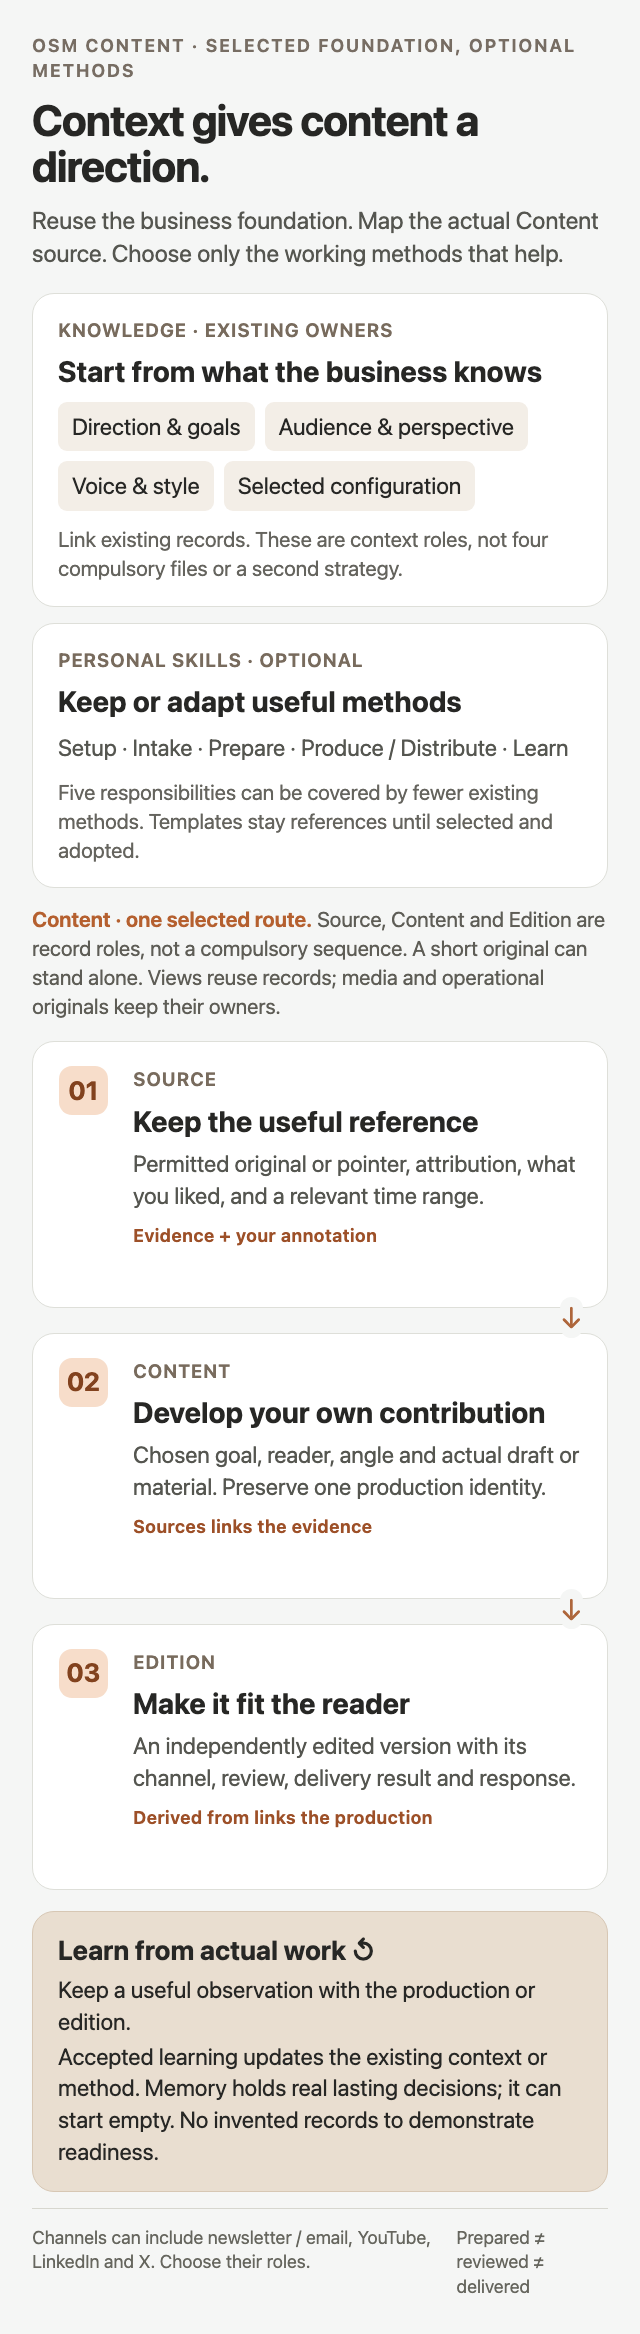
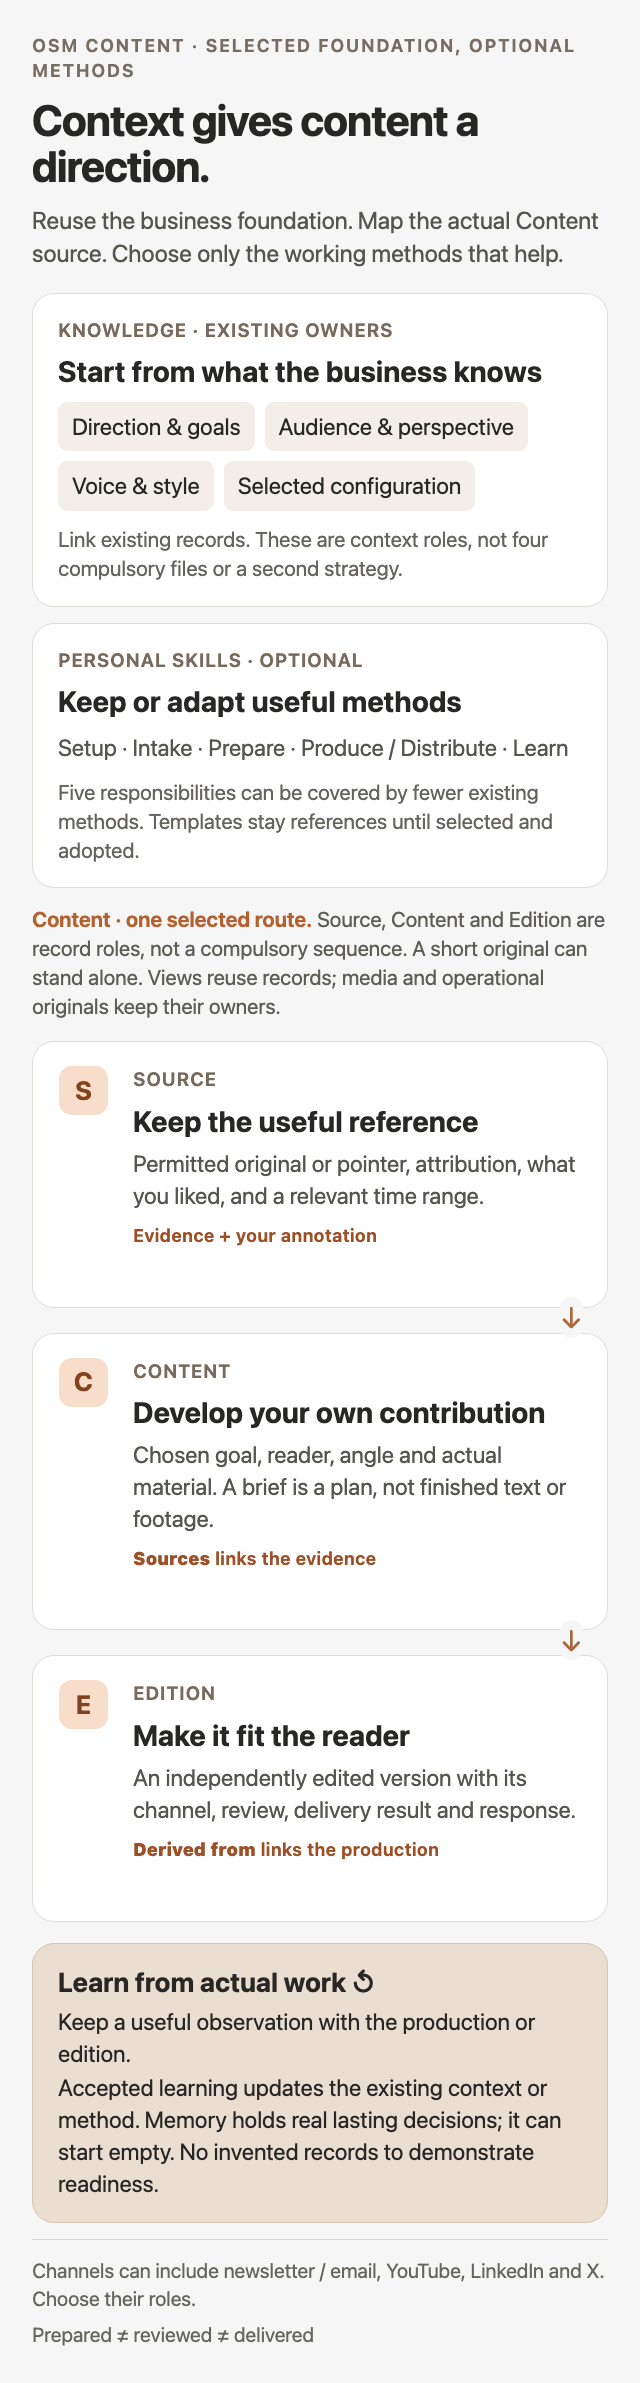
Clarify actual material and record roles in Content diagrams

diff --git a/assets/diagrams/content-foundation.html b/assets/diagrams/content-foundation.html
@@ -1,7 +1,7 @@
 <!doctype html><html lang="en"><meta charset="utf-8"><meta name="viewport" content="width=device-width, initial-scale=1"><title>Content foundation and optional methods</title>
 <style>
 *{box-sizing:border-box}body{margin:0;background:#f5f6f5;color:#272725;font:24px/1.38 -apple-system,BlinkMacSystemFont,"Segoe UI",sans-serif}.canvas{max-width:1600px;margin:auto;padding:50px 56px}.eyebrow{font-size:19px;text-transform:uppercase;letter-spacing:2px;color:#776d63;font-weight:650}h1{font-size:49px;line-height:1.08;letter-spacing:-1.6px;margin:13px 0 14px}h2{font-size:29px;line-height:1.16;margin:0 0 13px}p{margin:0 0 12px}.intro{max-width:1150px;color:#555650;font-size:24px}.top{display:grid;grid-template-columns:1.05fr .95fr;gap:22px;margin:28px 0 20px}.card{background:white;border:1px solid #dedfd9;border-radius:22px;padding:26px 30px}.label{font-size:18px;letter-spacing:1px;text-transform:uppercase;color:#786b5d;font-weight:650;margin-bottom:12px}.chips{display:flex;gap:10px;flex-wrap:wrap}.chip{padding:9px 14px;background:#f3eee7;border-radius:9px;font-size:21px}.muted{color:#65645e;font-size:20px;margin:14px 0 0}.rule{color:#b5602f;font-weight:650}.steps{display:grid;grid-template-columns:repeat(3,1fr);gap:22px}.step{position:relative}.step:not(:last-child):after{content:'→';position:absolute;right:-25px;top:65px;z-index:2;background:#f5f6f5;border-radius:30px;color:#ae663b;font-size:29px}.symbol{width:49px;height:49px;border-radius:13px;background:#f7ddca;color:#82421e;display:grid;place-items:center;font-weight:700;font-size:26px;margin-bottom:15px}.titleline{display:flex;align-items:center;gap:12px}.titleline h2{margin:0}.titleline .symbol{margin:0}.detail{font-size:21px;color:#555650}.learn{background:#e9ded0;border-color:#d7c7b4;display:grid;grid-template-columns:1fr 1.5fr;gap:22px;margin:21px 0 16px}.learn h2{font-size:27px}.learn p{font-size:22px;margin:0}.footer{font-size:19px;color:#66665e;display:flex;justify-content:space-between;gap:25px;border-top:1px solid #d7d7cf;padding-top:17px}.note{font-size:20px;color:#5e5d56;margin:0 0 22px}.steps .card{padding:24px 26px}.steps h2{margin:0 0 10px}.tag{font-size:18px;font-weight:650;letter-spacing:.5px;color:#9d5028;margin:12px 0 0}ul{padding-left:23px;margin:0}li{margin:3px 0}
-@media(max-width:900px){body{font-size:25px}.canvas{padding:34px 32px}.eyebrow{font-size:18px}h1{font-size:43px;letter-spacing:-1px}.intro{font-size:24px}.top{grid-template-columns:1fr;gap:16px;margin:23px 0 17px}.card{padding:23px 25px}.chip{font-size:23px}.muted{font-size:21px}.steps{grid-template-columns:1fr;gap:25px}.steps .card{padding:24px 26px}.steps .step{display:grid;grid-template-columns:57px 1fr;gap:17px}.steps .step>div{grid-column:2}.steps .step .symbol{grid-column:1;grid-row:1/4;margin:0}.steps .step:not(:last-child):after{content:'↓';right:24px;top:auto;bottom:-31px}.steps h2{font-size:29px}.detail{font-size:23px}.learn{grid-template-columns:1fr;gap:3px}.learn p{font-size:23px}.footer{font-size:18px}.note{font-size:21px;margin-bottom:20px}.label{font-size:19px}.learn h2{margin-bottom:8px}}
+@media(max-width:900px){body{font-size:25px}.canvas{padding:34px 32px}.eyebrow{font-size:18px}h1{font-size:43px;letter-spacing:-1px}.intro{font-size:24px}.top{grid-template-columns:1fr;gap:16px;margin:23px 0 17px}.card{padding:23px 25px}.chip{font-size:23px}.muted{font-size:21px}.steps{grid-template-columns:1fr;gap:25px}.steps .card{padding:24px 26px}.steps .step{display:grid;grid-template-columns:57px 1fr;gap:17px}.steps .step>div{grid-column:2}.steps .step .symbol{grid-column:1;grid-row:1/4;margin:0}.steps .step:not(:last-child):after{content:'↓';right:24px;top:auto;bottom:-31px}.steps h2{font-size:29px}.detail{font-size:23px}.learn{grid-template-columns:1fr;gap:3px}.learn p{font-size:23px}.footer{font-size:20px;flex-direction:column;gap:9px}.note{font-size:21px;margin-bottom:20px}.label{font-size:19px}.learn h2{margin-bottom:8px}}
 </style><div class="canvas">
 <div class="eyebrow">OSM Content · selected foundation, optional methods</div>
 <h1>Context gives content a direction.</h1>
@@ -12,9 +12,9 @@
 </div>
 <p class="note"><span class="rule">Content · one selected route.</span> Source, Content and Edition are record roles, not a compulsory sequence. A short original can stand alone. Views reuse records; media and operational originals keep their owners.</p>
 <div class="steps">
-<section class="card step"><div class="symbol">01</div><div><div class="label">Source</div><h2>Keep the useful reference</h2><p class="detail">Permitted original or pointer, attribution, what you liked, and a relevant time range.</p><p class="tag">Evidence + your annotation</p></div></section>
-<section class="card step"><div class="symbol">02</div><div><div class="label">Content</div><h2>Develop your own contribution</h2><p class="detail">Chosen goal, reader, angle and actual draft or material. Preserve one production identity.</p><p class="tag">Sources links the evidence</p></div></section>
-<section class="card step"><div class="symbol">03</div><div><div class="label">Edition</div><h2>Make it fit the reader</h2><p class="detail">An independently edited version with its channel, review, delivery result and response.</p><p class="tag">Derived from links the production</p></div></section>
+<section class="card step"><div class="symbol">S</div><div><div class="label">Source</div><h2>Keep the useful reference</h2><p class="detail">Permitted original or pointer, attribution, what you liked, and a relevant time range.</p><p class="tag">Evidence + your annotation</p></div></section>
+<section class="card step"><div class="symbol">C</div><div><div class="label">Content</div><h2>Develop your own contribution</h2><p class="detail">Chosen goal, reader, angle and actual material. A brief is a plan, not finished text or footage.</p><p class="tag"><b>Sources</b> links the evidence</p></div></section>
+<section class="card step"><div class="symbol">E</div><div><div class="label">Edition</div><h2>Make it fit the reader</h2><p class="detail">An independently edited version with its channel, review, delivery result and response.</p><p class="tag"><b>Derived from</b> links the production</p></div></section>
 </div>
 <section class="card learn"><div><h2>Learn from actual work ↺</h2><p>Keep a useful observation with the production or edition.</p></div><p>Accepted learning updates the existing context or method. Memory holds real lasting decisions; it can start empty. No invented records to demonstrate readiness.</p></section>
 <div class="footer"><span>Channels can include newsletter / email, YouTube, LinkedIn and X. Choose their roles.</span><span>Prepared ≠ reviewed ≠ delivered</span></div>
